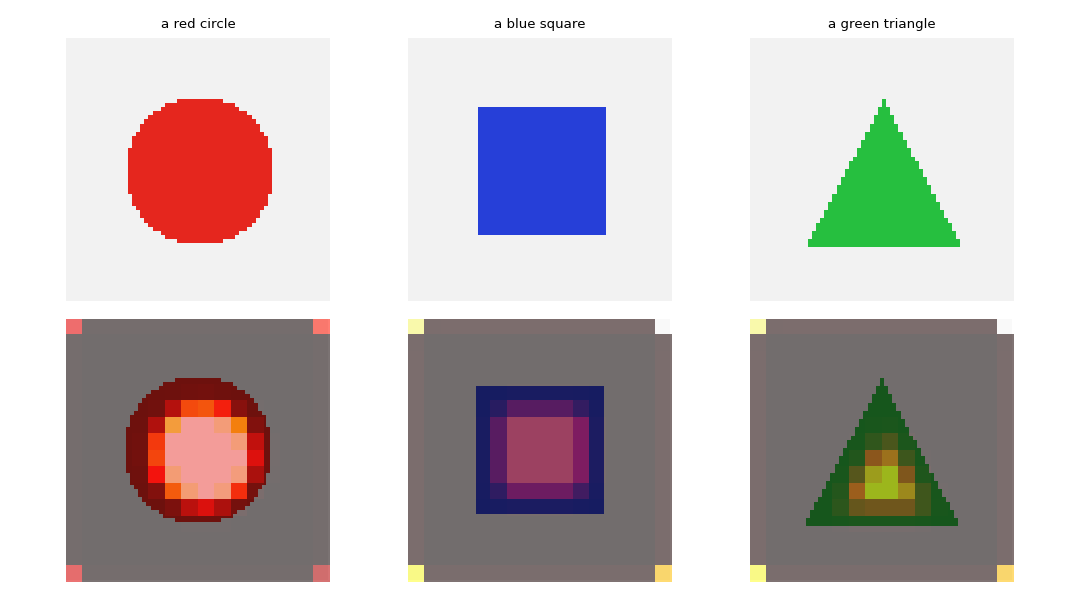
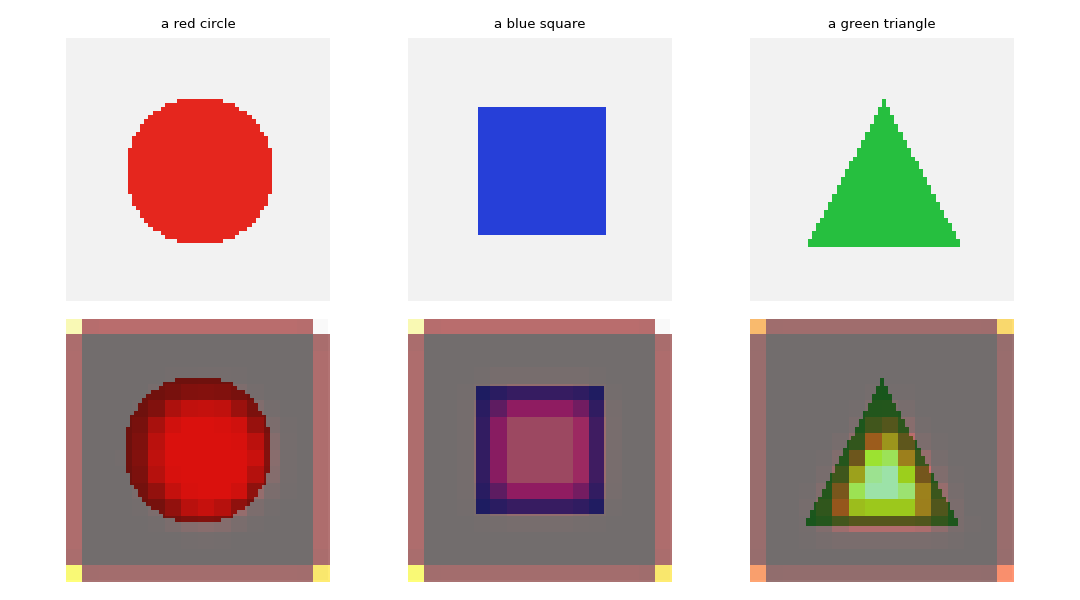
fix(multimodal): eliminate FS04 nan CE on pad-only steps
Mask cross-entropy over non-pad tokens so all-pad timesteps
do not produce nan; re-verify FS03-04 gates finite+exact on T4x2.

diff --git a/notebooks/multimodal-from-scratch/PROGRESS.md b/notebooks/multimodal-from-scratch/PROGRESS.md
@@ -1,6 +1,6 @@
 # Progress · Multimodal From Scratch
 
-> **HARD ACCEPTANCE: ALL PASS** on Kaggle T4×2 (`ACCEPTANCE.json` per kernel + master).
+> **HARD ACCEPTANCE: ALL PASS** (incl. finite-loss gates). FS04 pad-mask CE nan fixed.
 
 | Stage | Method | Metrics |
 |-------|--------|---------|
@@ -15,29 +15,19 @@
 | FS08 | patch MaxSim | `{"visual_R@1": 1.0}` |
 | FS09 | frameCNN+GRU | `{"clean_acc": 1.0}` |
 | FS10 | logmel CNN/BiGRU | `{"acc": 1.0}` |
-| FS11 | class-cond supervised image generator | `{"frame_mse": {"red_circle": 0.0019295663805678487, "blue_square": 1.9622900708782254e-06,` |
-| FS12 | cond video generator | `{"frame_mse": {"red_circle": 1.2211856414978683e-08, "blue_square": 8.89058782149732e-09, ` |
+| FS11 | class-cond supervised image generator | `{"frame_mse": {"red_circle": 0.0019295663805678487, "blue_square": 1.9622900708782254e-06, "green_tr` |
+| FS12 | cond video generator | `{"frame_mse": {"red_circle": 1.2211856414978683e-08, "blue_square": 8.89058782149732e-09, "green_tri` |
 | FS13 | tiny MLLM causal | `{"acc": 1.0}` |
 | FS14 | phased any-to-any router | `{"route_acc": 1.0}` |
 
 ## Kernel gates
 
-- `qiaojiajin__grok-multimodal-fs00-fs02-foundations`: {'FS00_matched_score2': True, 'FS00_mismatch_lt2': True, 'FS01_exact_match': True, 'FS02_val_acc': True, 'FS02_clean_acc': True}
-- `qiaojiajin__grok-multimodal-fs03-fs04-captioning`: {'FS03_cls_val': True, 'FS03_greedy_exact': True, 'FS04_cls_val': True, 'FS04_greedy_exact': True}
-- `qiaojiajin__grok-multimodal-fs05-fs06-align-vqa`: {'FS05_R@1': True, 'FS06_acc': True}
-- `qiaojiajin__grok-multimodal-fs07-fs08-doc`: {'FS07_ret': True, 'FS07_ans': True, 'FS08_visual_R@1': True}
-- `qiaojiajin__grok-multimodal-fs09-fs10-video-audio`: {'FS09_val': True, 'FS09_clean': True, 'FS10_val': True, 'FS10_clean': True}
-- `qiaojiajin__grok-multimodal-fs11-fs12-generation`: {'FS11_mse': True, 'FS11_color': True, 'FS12_mse': True}
-- `qiaojiajin__grok-multimodal-fs13-fs14-unified`: {'FS13_acc': True, 'FS14_route_acc': True}
+- `qiaojiajin__grok-multimodal-fs00-fs02-foundations` → {'FS00_matched_score2': True, 'FS00_mismatch_lt2': True, 'FS01_exact_match': True, 'FS02_val_acc': True, 'FS02_clean_acc': True}
+- `qiaojiajin__grok-multimodal-fs03-fs04-captioning` → {'FS03_cls_val': True, 'FS03_greedy_exact': True, 'FS03_loss_finite': True, 'FS04_loss_finite': True, 'FS04_cls_val': True, 'FS04_greedy_exact': True}
+- `qiaojiajin__grok-multimodal-fs05-fs06-align-vqa` → {'FS05_R@1': True, 'FS06_acc': True}
+- `qiaojiajin__grok-multimodal-fs07-fs08-doc` → {'FS07_ret': True, 'FS07_ans': True, 'FS08_visual_R@1': True}
+- `qiaojiajin__grok-multimodal-fs09-fs10-video-audio` → {'FS09_val': True, 'FS09_clean': True, 'FS10_val': True, 'FS10_clean': True}
+- `qiaojiajin__grok-multimodal-fs11-fs12-generation` → {'FS11_mse': True, 'FS11_color': True, 'FS12_mse': True}
+- `qiaojiajin__grok-multimodal-fs13-fs14-unified` → {'FS13_acc': True, 'FS14_route_acc': True}
 
-## Links
-
-- https://www.kaggle.com/code/qiaojiajin/grok-multimodal-fs00-fs02-foundations
-- https://www.kaggle.com/code/qiaojiajin/grok-multimodal-fs03-fs04-captioning
-- https://www.kaggle.com/code/qiaojiajin/grok-multimodal-fs05-fs06-align-vqa
-- https://www.kaggle.com/code/qiaojiajin/grok-multimodal-fs07-fs08-doc
-- https://www.kaggle.com/code/qiaojiajin/grok-multimodal-fs09-fs10-video-audio
-- https://www.kaggle.com/code/qiaojiajin/grok-multimodal-fs11-fs12-generation
-- https://www.kaggle.com/code/qiaojiajin/grok-multimodal-fs13-fs14-unified
-
-Last update: full hard acceptance COMPLETE
+Last update: full hard acceptance + FS04 nan fix COMPLETE
